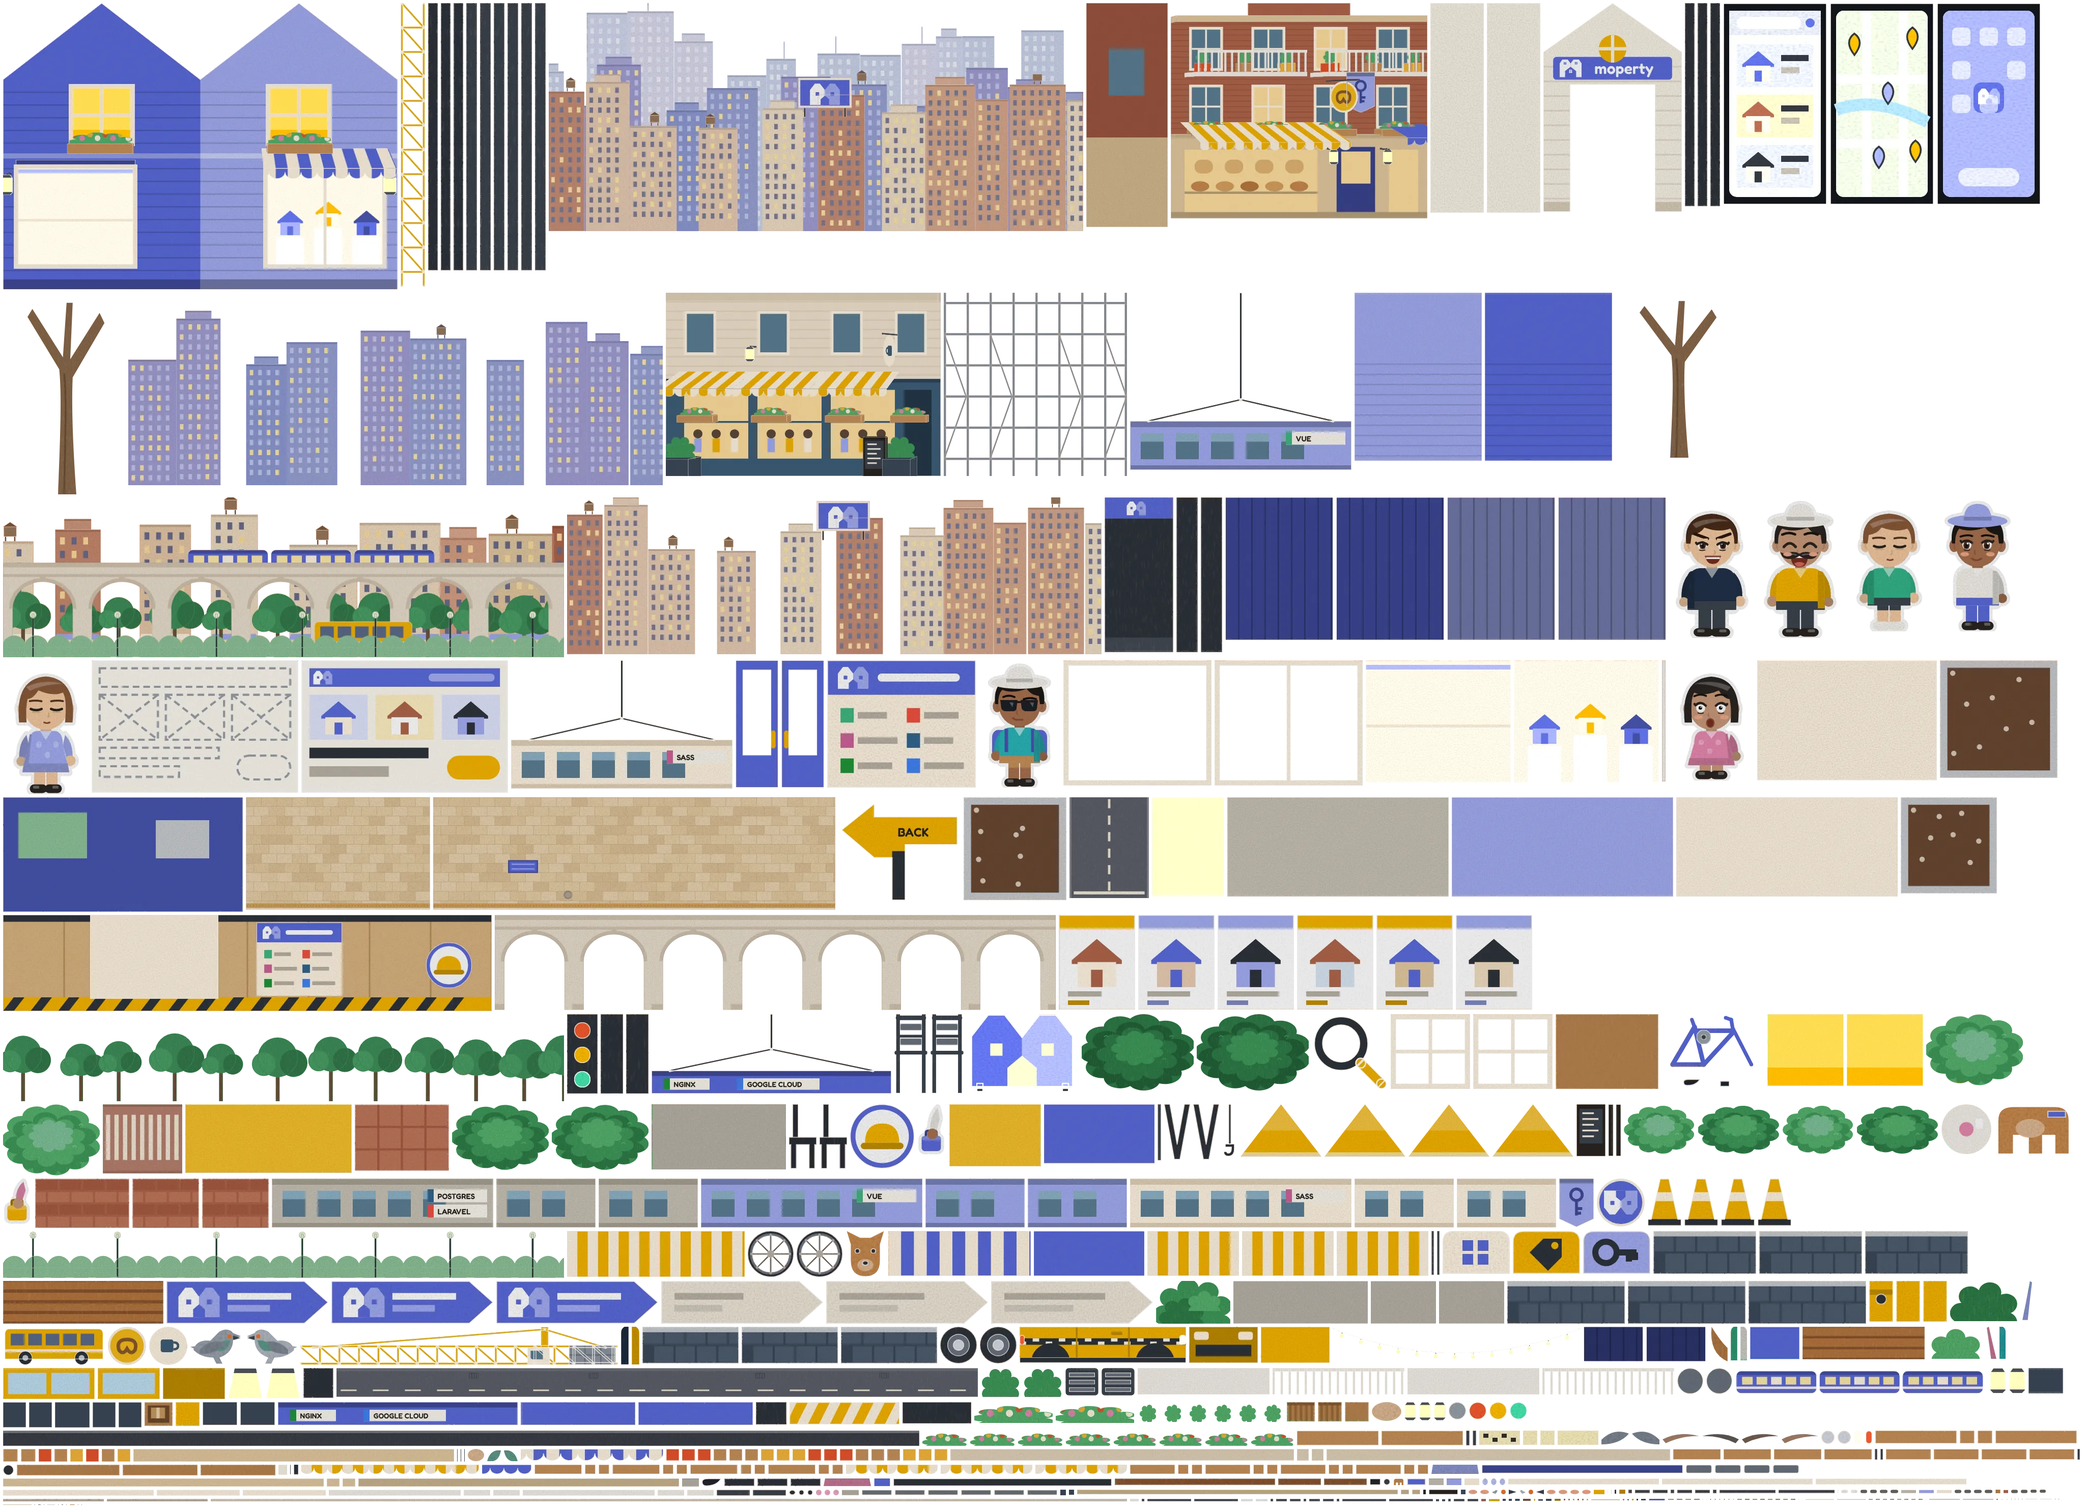
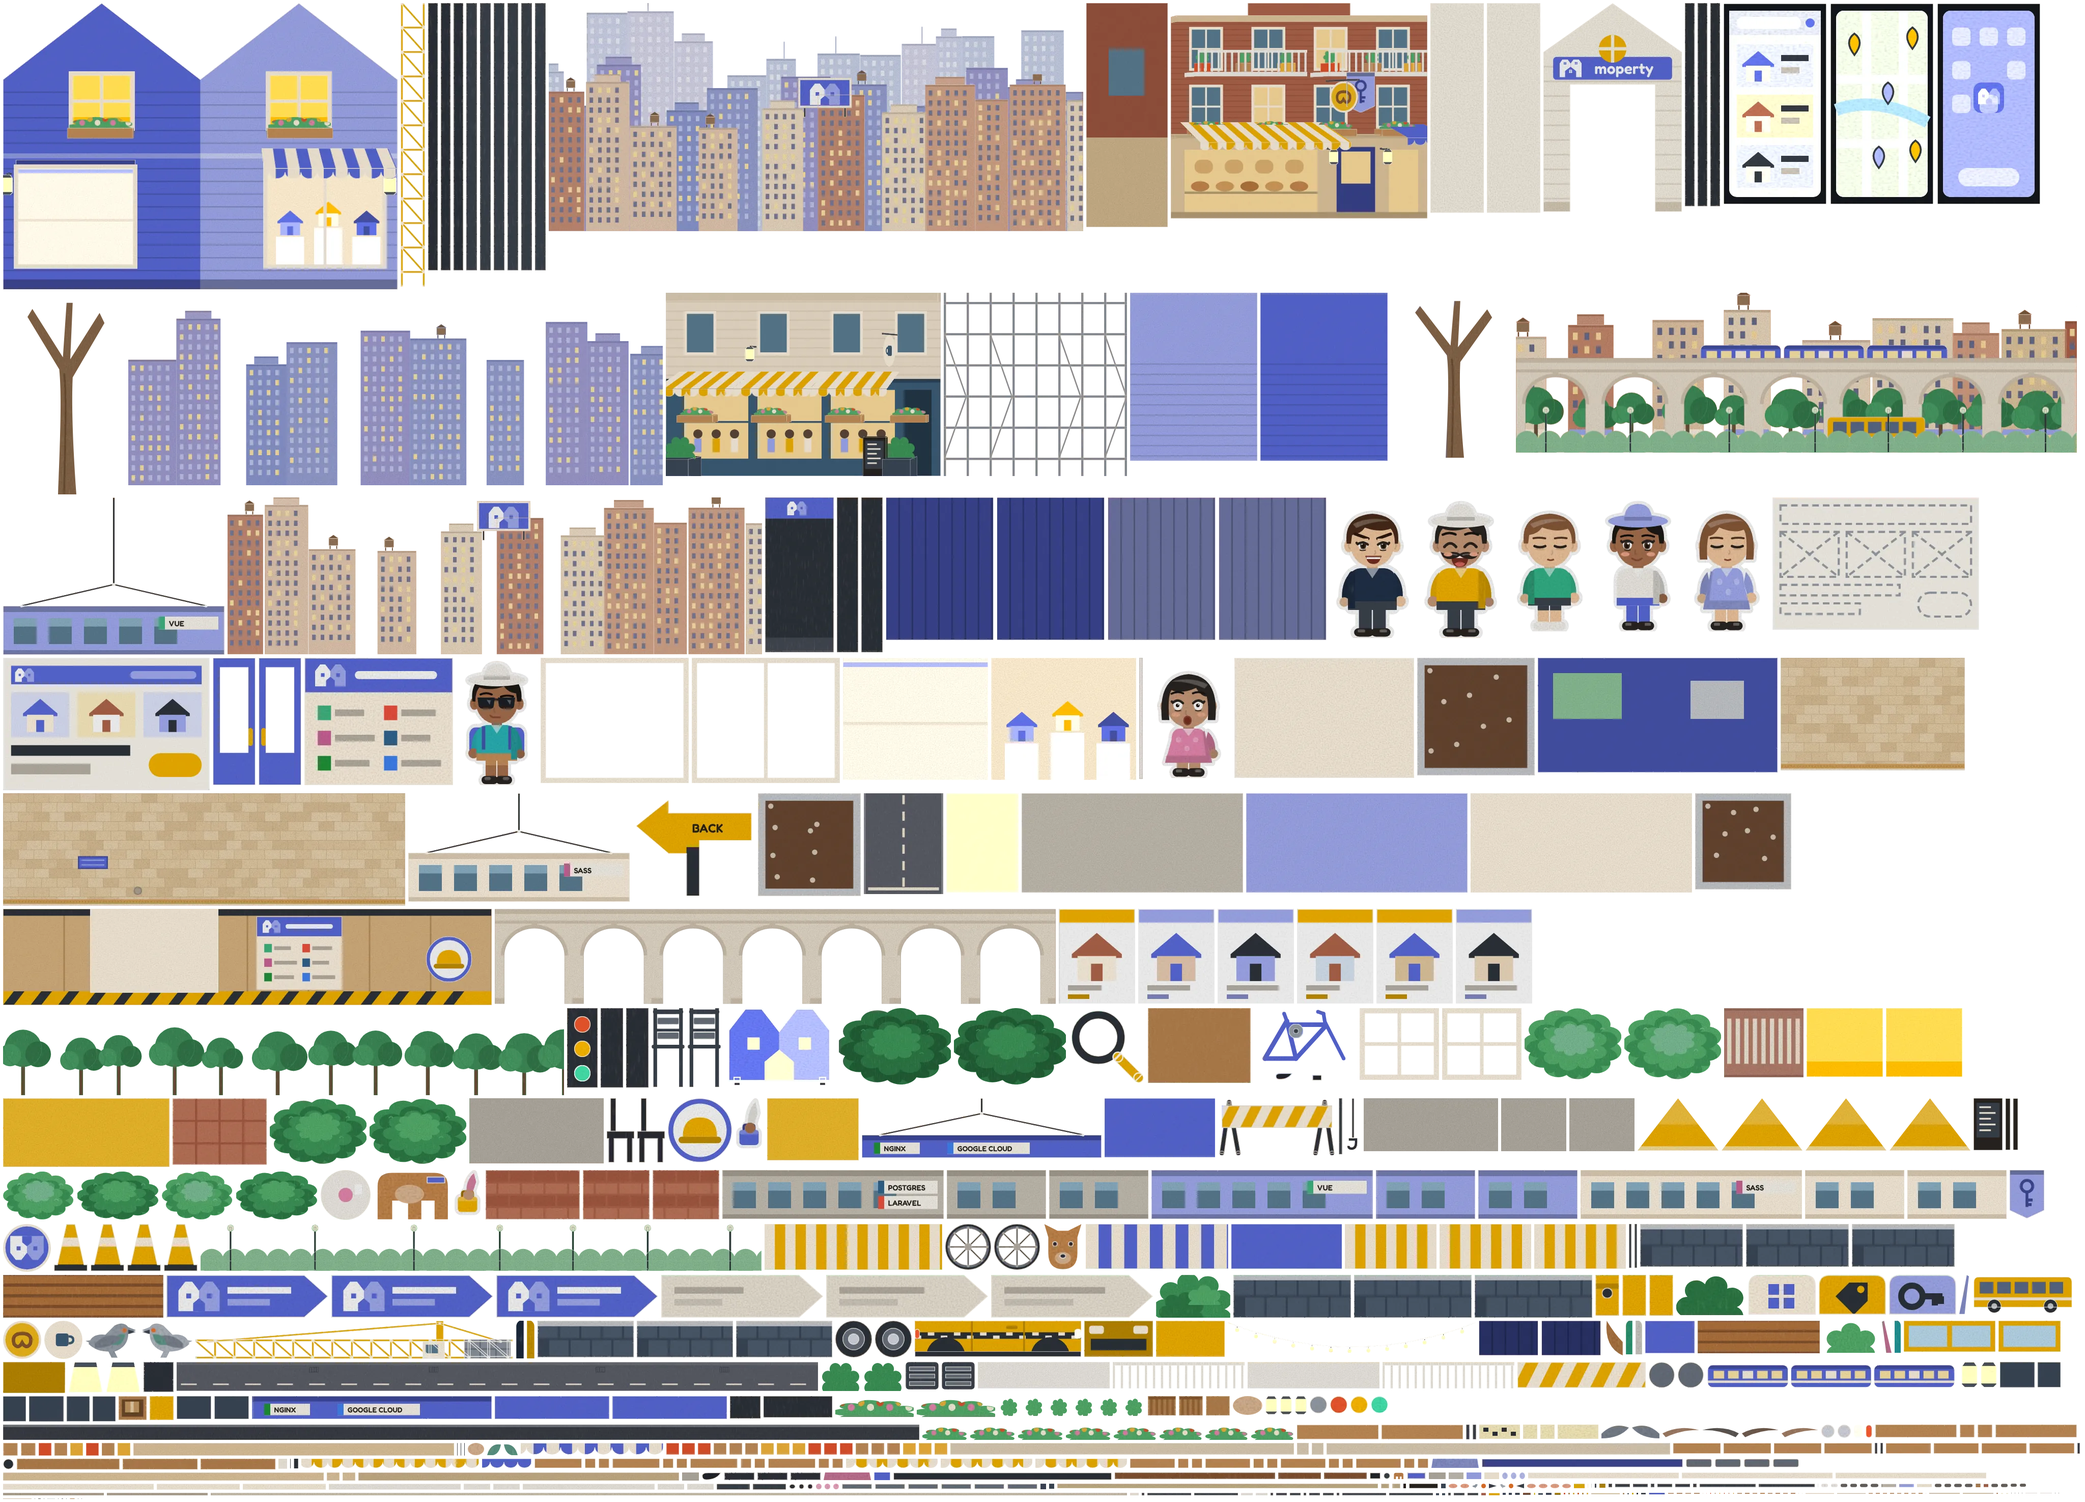
papercraft: downtown stops stand beside their objects; art bible covers the corner
Claude-Session: https://claude.ai/code/session_01YPNotSbbJKW5yf9dC5KJqA

diff --git a/game/src/art/scenes/downtown.ts b/game/src/art/scenes/downtown.ts
@@ -158,7 +158,7 @@ function gableRoof(id: string, cx: number, zf: number, half: number, peak: numbe
 function gallery(): Panel[] {
   const { x, z, w, d, wall, peak } = G, H = wall + peak, x0 = x - w / 2, hw = w / 2, density = 1.25;
   // Holes, measured from the wall's left foot: the listings window, the model window, and the two logo windows upstairs.
-  const win = { list: [24, 40, 180, 150], model: [416, 40, 180, 150], upL: [110, 232, 90, 84], upR: [420, 232, 90, 84] } as const;
+  const win = { list: [24, 40, 180, 150], model: [416, 40, 180, 150], upL: [110, 256, 90, 80], upR: [420, 256, 90, 80] } as const;
   const holes = Object.values(win).map(([a, b, c, e]) => `M${a} ${H - b}V${H - b - e}H${a + c}V${H - b}Z`).join(' ');
   const boards = (cx: number, c: string) => Array.from({ length: 16 }, (_, i) => `<path d="M${cx} ${peak + (i + 1) * 20}h${hw}" stroke="${tone(c, -.16)}" stroke-width="2"/>`).join('');
   const front: Panel = { id: 'gallery-front', stock: 'cover', c: INDIGO, w, h: H, o: [x0, 0, z], u: [1, 0, 0], v: [0, 1, 0], density, edge: 'cut',
@@ -171,7 +171,7 @@ function gallery(): Panel[] {
   // Through the listings window: a pale pinboard wall. The listing cards themselves hang in front of the glass.
   const pinboard = `<rect width="200" height="170" fill="#f7efe0"/><rect y="6" width="200" height="6" fill="${tone(INDIGO, .5)}"/><rect y="84" width="200" height="4" fill="#e6dac6"/>`;
   // Through the model window: three house models on plinths.
-  const models = `<rect width="200" height="170" fill="#f7efe0"/>${[0, 1, 2].map(k => `<rect x="${18 + k * 60}" y="${112 - (k % 2) * 14}" width="44" height="${58 + (k % 2) * 14}" fill="#fff"/><g transform="translate(${17 + k * 60} ${66 - (k % 2) * 14}) scale(1.55)">${house([LAV, CREAM, INDIGO][k], [INDIGO, YEL, tone(INDIGO, -.3)][k])}</g>`).join('')}`;
+  const models = `<rect width="200" height="170" fill="#ecdcc0"/>${[0, 1, 2].map(k => `<rect x="${18 + k * 60}" y="${112 - (k % 2) * 14}" width="44" height="${58 + (k % 2) * 14}" fill="#fff"/><g transform="translate(${17 + k * 60} ${66 - (k % 2) * 14}) scale(1.55)">${house([LAV, CREAM, INDIGO][k], [INDIGO, YEL, tone(INDIGO, -.3)][k])}</g>`).join('')}`;
   const windows = [...windowBox('g-list', front, win.list[0], win.list[1], win.list[2], win.list[3], pinboard, 1, 1, 14), ...windowBox('g-model', front, win.model[0], win.model[1], win.model[2], win.model[3], models, 2, 1),
     ...windowBox('g-up-l', front, win.upL[0], win.upL[1], win.upL[2], win.upL[3], yellow, 2, 2, 10), ...windowBox('g-up-r', front, win.upR[0], win.upR[1], win.upR[2], win.upR[3], yellow, 2, 2, 10)];
   const walls = box({ id: 'gallery-body', x, z: z - d / 2, w, h: wall, d, stock: 'cover', c: INDIGO, side: INDIGO, noTop: true, left: boards(0, INDIGO).replaceAll(`h${hw}`, `h${d}`), right: boards(0, LAV).replaceAll(`h${hw}`, `h${d}`) })
@@ -208,8 +208,8 @@ function gallery(): Panel[] {
   const icons = [`<g fill="${INDIGO}"><rect x="13" y="6" width="7" height="7"/><rect x="23" y="6" width="7" height="7"/><rect x="13" y="15" width="7" height="7"/><rect x="23" y="15" width="7" height="7"/></g>`,
     `<path d="M11 14L20 5H32V17L23 26Z" fill="${STEEL}"/><circle cx="27.5" cy="9.5" r="2.4" fill="${YEL}"/>`,
     `<circle cx="15" cy="14" r="7" fill="none" stroke="${STEEL}" stroke-width="4"/><path d="M22 14H35M30 14V20M34 14V19" stroke="${STEEL}" stroke-width="4" fill="none"/>`];
-  const tabs = icons.map((icon, i): Panel => ({ id: `tab-${i}`, stock: 'cover', c: [CREAM, YEL, LAV][i], w: 44, h: 28, o: [lx + 14 + i * 54, ly + win.list[3] + 12, z + 2.4], u: [1, 0, 0], v: [0, 1, 0], edge: 'cut', density: 3,
-    mask: '<path d="M0 28V7Q0 0 7 0H37Q44 0 44 7V28Z" fill="#fff"/>', print: icon, motion: { toy: 'filter', at: [i], slide: [0, 10, 0] } }));
+  const tabs = icons.map((icon, i): Panel => ({ id: `tab-${i}`, stock: 'cover', c: [CREAM, YEL, LAV][i], w: 44, h: 26, o: [lx + 14 + i * 54, ly + win.list[3] + 10, z + 2.4], u: [1, 0, 0], v: [0, 1, 0], edge: 'cut', density: 3,
+    mask: '<path d="M0 26V7Q0 0 7 0H37Q44 0 44 7V26Z" fill="#fff"/>', print: icon, motion: { toy: 'filter', at: [i], slide: [0, 10, 0] } }));
   const rail = on(front, 1, win.list[0] - 4, win.list[1] + win.list[3] + 6, win.list[2] + 8, 8, { id: 'tab-rail', stock: 'cover', c: tone(INDIGO, -.3) });
   return [front, ...dress, ...walls, ...windows, ...roofs, eFront, ...eWalls, ...eRoof, room, leaf('gdoor-l', x - E.door / 2, 'left'), leaf('gdoor-r', x, 'right'), rail, ...tabs, ...cards];
 }
@@ -419,7 +419,7 @@ function surroundings(): Panel[] {
 
   return [lFront, lEnd, ...lRelief, rFront, ...rRelief, ...lights, back,
     // Left pavement: a shade tree over a bench, a bicycle against it, the signal at the crossing.
-    ...shadeTree('tree-l', -790, -150, 270), ...planter('tree-l-bed', -790, -150, 96), ...bench('bench', -745, -70, 150), ...bicycle('bike', -752, -30, 6, INDIGO),
+    ...shadeTree('tree-l', -692, -170, 270), ...planter('tree-l-bed', -692, -170, 96), ...bench('bench', -720, -100, 150), ...bicycle('bike', -872, 70, 78, INDIGO),
     ...signal('signal', -654, -46), ...hydrant('hydrant', 150, 170),
     // The avenue corner: the finger-post, and a bed of bushes against the gallery's side wall.
     ...fingerPost(-376, -64), ...planter('corner-bed', -318, -200, 90, 34), ...bush('corner-bush', -318, -206, 104, 60, 30),
@@ -441,7 +441,7 @@ function surroundings(): Panel[] {
     ...shadeTree('tree-r', 1250, 250, 330), ...planter('tree-r-bed', 1250, 250, 110),
     // The kerb: lamps, a commuter waiting to cross, a taxi at the stand, a low bed of bushes at the front edge.
     ...streetLamp('lamp-a', -900, 180, 250, '#ffe7a8'), ...streetLamp('lamp-b', 1150, 184, 250, '#ffe7a8'),
-    ...shopper('commuter', 356, 156, { coat: '#2bb5b8', legs: '#c8915a', skin: '#a8714f', hair: '#1d1a17', style: 'shorts', pack: INDIGO, hat: '#f4f1ea', build: 'average', face: 'cool' }, true, .95, 0, false),
+    ...shopper('commuter', 392, 150, { coat: '#2bb5b8', legs: '#c8915a', skin: '#a8714f', hair: '#1d1a17', style: 'shorts', pack: INDIGO, hat: '#f4f1ea', build: 'average', face: 'cool' }, true, .95, 0, false),
     ...taxi('taxi', 230, 262, 0)];
 }
 

diff --git a/game/src/content.ts b/game/src/content.ts
@@ -97,11 +97,11 @@ export const content: Content = validateContent({ worlds: {
     stops: [
       out('moperty'),
       { id: 'signpost', label: 'Finger-post', x: -330, z: -10, focus: 1.5, look: -320, action: { kind: 'toy', toy: 'rank', states: 3 } },
-      { id: 'listings', label: 'Listings window', x: -156, z: -10, focus: 1.6, look: -156, action: { kind: 'toy', toy: 'filter', states: 3 } },
+      { id: 'listings', label: 'Listings window', x: -52, z: -10, focus: 1.6, look: -140, action: { kind: 'toy', toy: 'filter', states: 3 } },
       { id: 'gallery-door', label: 'Visit Moperty', x: 40, z: -6, reach: 90, action: { kind: 'link', href: 'https://moperty.id' } },
-      { id: 'kiosk', label: 'Street poster', x: 430, z: -10, focus: 1.8, look: 430, action: { kind: 'toy', toy: 'app', states: 3 } },
-      { id: 'easel', label: 'Drawing board', x: 570, z: -10, focus: 1.6, look: 570, action: { kind: 'toy', toy: 'paint', states: 2 } },
-      { id: 'site-board', label: 'Site board', x: 760, z: -10, action: { kind: 'letter', letter: 'stack' } },
+      { id: 'kiosk', label: 'Street poster', x: 384, z: -10, focus: 1.8, look: 420, action: { kind: 'toy', toy: 'app', states: 3 } },
+      { id: 'easel', label: 'Drawing board', x: 482, z: -10, focus: 1.6, look: 556, action: { kind: 'toy', toy: 'paint', states: 2 } },
+      { id: 'site-board', label: 'Site board', x: 736, z: -10, action: { kind: 'letter', letter: 'stack' } },
       { id: 'site', label: 'Tower crane', x: 866, z: 20, action: { kind: 'toy', toy: 'build', states: 4 } } ],
     letters: [stack([T.vue, T.laravel, T.sass, T.postgres, T.nginx, T.gcloud])],
     encoded: [

diff --git a/game/docs/ART_BIBLE.md b/game/docs/ART_BIBLE.md
@@ -26,6 +26,7 @@ Each space uses its base colours plus at most two accents. All values come from 
 | Riverside promenade (street) | Sky `#8fd3f4`, brick paving `#dba38b`, river `#4fa9d6`, palm `#3f9a5b` | Blibli blue `#0092da`, coral `#e8552d` | Cream `#fff4e2`, kraft `#b98450` |
 | First-floor outlet | Brick `#d9a968`, planks `#c58c4d` | Blibli blue `#0092da`, sun `#f6b73c` | Cream `#fff4e2`, ink `#1d2228` |
 | Second-floor store-room | Plank `#8f6f55`, concrete `#8b8275` | Coral `#e8552d`, mint `#35b58a` | Kraft `#b98450`, steel `#3d444e` |
+| Moperty downtown | Sky `#a9d8f0`, stone paving `#e3c9a0`, brick `#b0664c`, asphalt `#5d616b` | Moperty indigo `#5b6bdc` with lavender `#a3adf2`, window yellow `#f5b400` | Cream `#fff4e2`, steel `#2f343c` |
 
 Tech colours from `content.ts` appear only as small label bars.
 
@@ -125,6 +126,28 @@ Neither floor carries a written account of the work. Each part of the work is an
 
 Stops carry `focus` and `look`: the camera leans in on the object being used while the courier stands beside it, not in front of it.
 
+### Moperty: the downtown corner
+
+The Moperty space (`src/art/scenes/downtown.ts`) is a street corner in front of the Moperty sales gallery, built from the promenade's kit and to the same standard. Moperty is a property marketplace, so the corner is its catalogue: a listings window, a flat to let, a new block going up.
+
+- **Main space:** the stone pavement along the gallery, with a raised brick crossing where the avenue meets it. The kerb, the road and a taxi at the stand frame the front edge.
+- **Open surroundings:** the avenue on the left runs back to a shadow box. Card one closes it with the cross street: shops, street trees, a pale rail viaduct with an indigo train standing on it, a bus passing in front, a clipped hedge. Card two stands further back with three rows of towers, pale, deep, then warm, and a billboard carrying the mark. The city in the CSS backdrop goes pale, cool, then warm sand, so the indigo gallery always stands clear of it.
+- **Enclosed surroundings:** a brick walk-up with a bakery on the left, the gallery and the building site at the back, the corner café on the right. Awnings, balconies, flower boxes, lanterns and blade signs are carved relief.
+- **The gallery is the mark, built as a building:** an indigo and a lavender gabled house joined into one, each with the mark's yellow window, and the small white house between them as the entrance.
+- **Freestanding objects are folded:** the taxi is a body box with the cabin set back on it and a lit roof sign, with wheels, sill and lamps glued on; the dog is a tent fold with its head a card glued across the front and its tail a card behind; cones are two slotted cards; the hydrant, signal, poster totem and brick pallet are box folds with their small parts glued on. The crane's mast and jib, the scaffolding, the barrier and the finger-post's arrows are flat because they are plane-shaped.
+- **Small stories, not scattered props:** the dog walker on the crossing, the couple at the model window, pigeons on the doormat side of the pavement, the painter at the drawing board, the forewoman shouting past the barrier, a guest asleep on the café terrace, a commuter by the taxi.
+- **Stops stand beside what they use,** in walking order, so the player never covers the object being played.
+
+| Stop | What you do | What it stands for |
+|---|---|---|
+| Finger-post | Each A lifts the Moperty arrow one place up the pole, under the magnifier | SEO |
+| Listings window | The tabs filter the cards in the window: all, for sale (yellow ribbon), for rent (lavender ribbon) | Browsing local real estate |
+| Gallery door | The doors swing open; A visits moperty.id | The product |
+| Street poster | A turns the lit screen: the site in a browser, the neighbourhood map, then the icon on a home screen | A progressive web app |
+| Drawing board | A paints over the pencil wireframe of the listing page | Designing the UIs |
+| Site board | Opens the tech stack | Tech stack |
+| Tower crane | Each A sets the next module on the new block: backend base (Postgres, Laravel), two front-end floors (Vue, Sass), then the roof (Nginx, Google Cloud) and its lit sign | Building and running the whole product, front end and back end |
+
 ### Outside and inside match
 
 A room diorama is the building seen from the street, cut open. Every room's outline must match the exterior that holds it.
@@ -137,9 +160,9 @@ A room diorama is the building seen from the street, cut open. Every room's outl
 
 ## Pipeline
 
-`npm run paper` rebuilds all three spaces. `npm run paper -- street 64` rebuilds one quickly at low samples. `PAPER_PREVIEW=1 npm run paper -- street` skips Blender and lights everything evenly, for laying a scene out in under a minute; never ship it. Set `BLENDER` and `CHROME` to the binaries when they are not in the macOS default locations, and `CYCLES_DEVICE=NONE` to bake on the CPU.
+`npm run paper` rebuilds every space. `npm run paper -- street 64` rebuilds one quickly at low samples. `PAPER_PREVIEW=1 npm run paper -- street` skips Blender and lights everything evenly, for laying a scene out in under a minute; never ship it. Set `BLENDER` and `CHROME` to the binaries when they are not in the macOS default locations, and `CYCLES_DEVICE=NONE` to bake on the CPU.
 
-1. `src/art/kit.ts` holds the parts: panels, boxes, hinges, tabs, slots, layered decals and relief. `src/art/recipes.ts` turns data into objects and print layers. `src/art/scenes/` holds the three spaces as data.
+1. `src/art/kit.ts` holds the parts: panels, boxes, hinges, tabs, slots, layered decals and relief. `src/art/recipes.ts` turns data into objects and print layers. `src/art/scenes/` holds the spaces as data.
 2. Chrome renders each panel's stock, print, grain and edges into an albedo atlas.
 3. Blender Cycles bakes light only, at half the atlas size (`LIGHT_SCALE`): each surface sees itself as white while bounce rays still take on the colours around it. Light is smooth by nature, so a low sample count is enough once `finish.py` smooths it within each panel.
 4. `finish.py` multiplies the crisp print back over the light, lights the far backdrop evenly (nothing near can shade it) apart from the shadows its own cut layers throw on each other, worked out from `SUN_TO_LIGHT`, the sun's soft edge and each layer's gap, flattens decals and flat relief into their parents along the parent's normal, paints carved relief onto its wall along the game camera's rays (nearest piece wins), culls faces no game camera can see, and writes the atlas, backdrop and manifest. Far layers are packed last and cropped off the shipped atlas, so the backdrop can be cut at high resolution for free.
@@ -164,6 +187,7 @@ Measured on the worst case: software GPU, 4x CPU throttle, DPR 2.625, landscape.
 | Street (riverside promenade) | 210 (uses 209) |
 | First-floor outlet | 75 |
 | Second-floor store-room | 115 |
+| Moperty downtown | 210 (uses 209) |
 
 Panels that swap with a toy (`show`) or ride a belt (`group`) are baked as phantoms: lit, but casting no shadow, so variants sharing a spot never shade each other and a belt box leaves no shadow where it no longer is. Hidden variants are not in the page, so they cost nothing.
 
@@ -179,4 +203,6 @@ Paper moves in five stepped frames over .42s, never smoothly. Conveyor parcels a
 | Showcase phone | The chosen swatch chip rises |
 | Recommended shelf | Placeholder cards fold down |
 | Review board | The chosen filter tab rises |
+| Moperty gallery | Both door leaves swing inward |
+| Listings window | The chosen filter tab rises |
 | Any toy | A piece that appears drops into place in five stepped frames |
